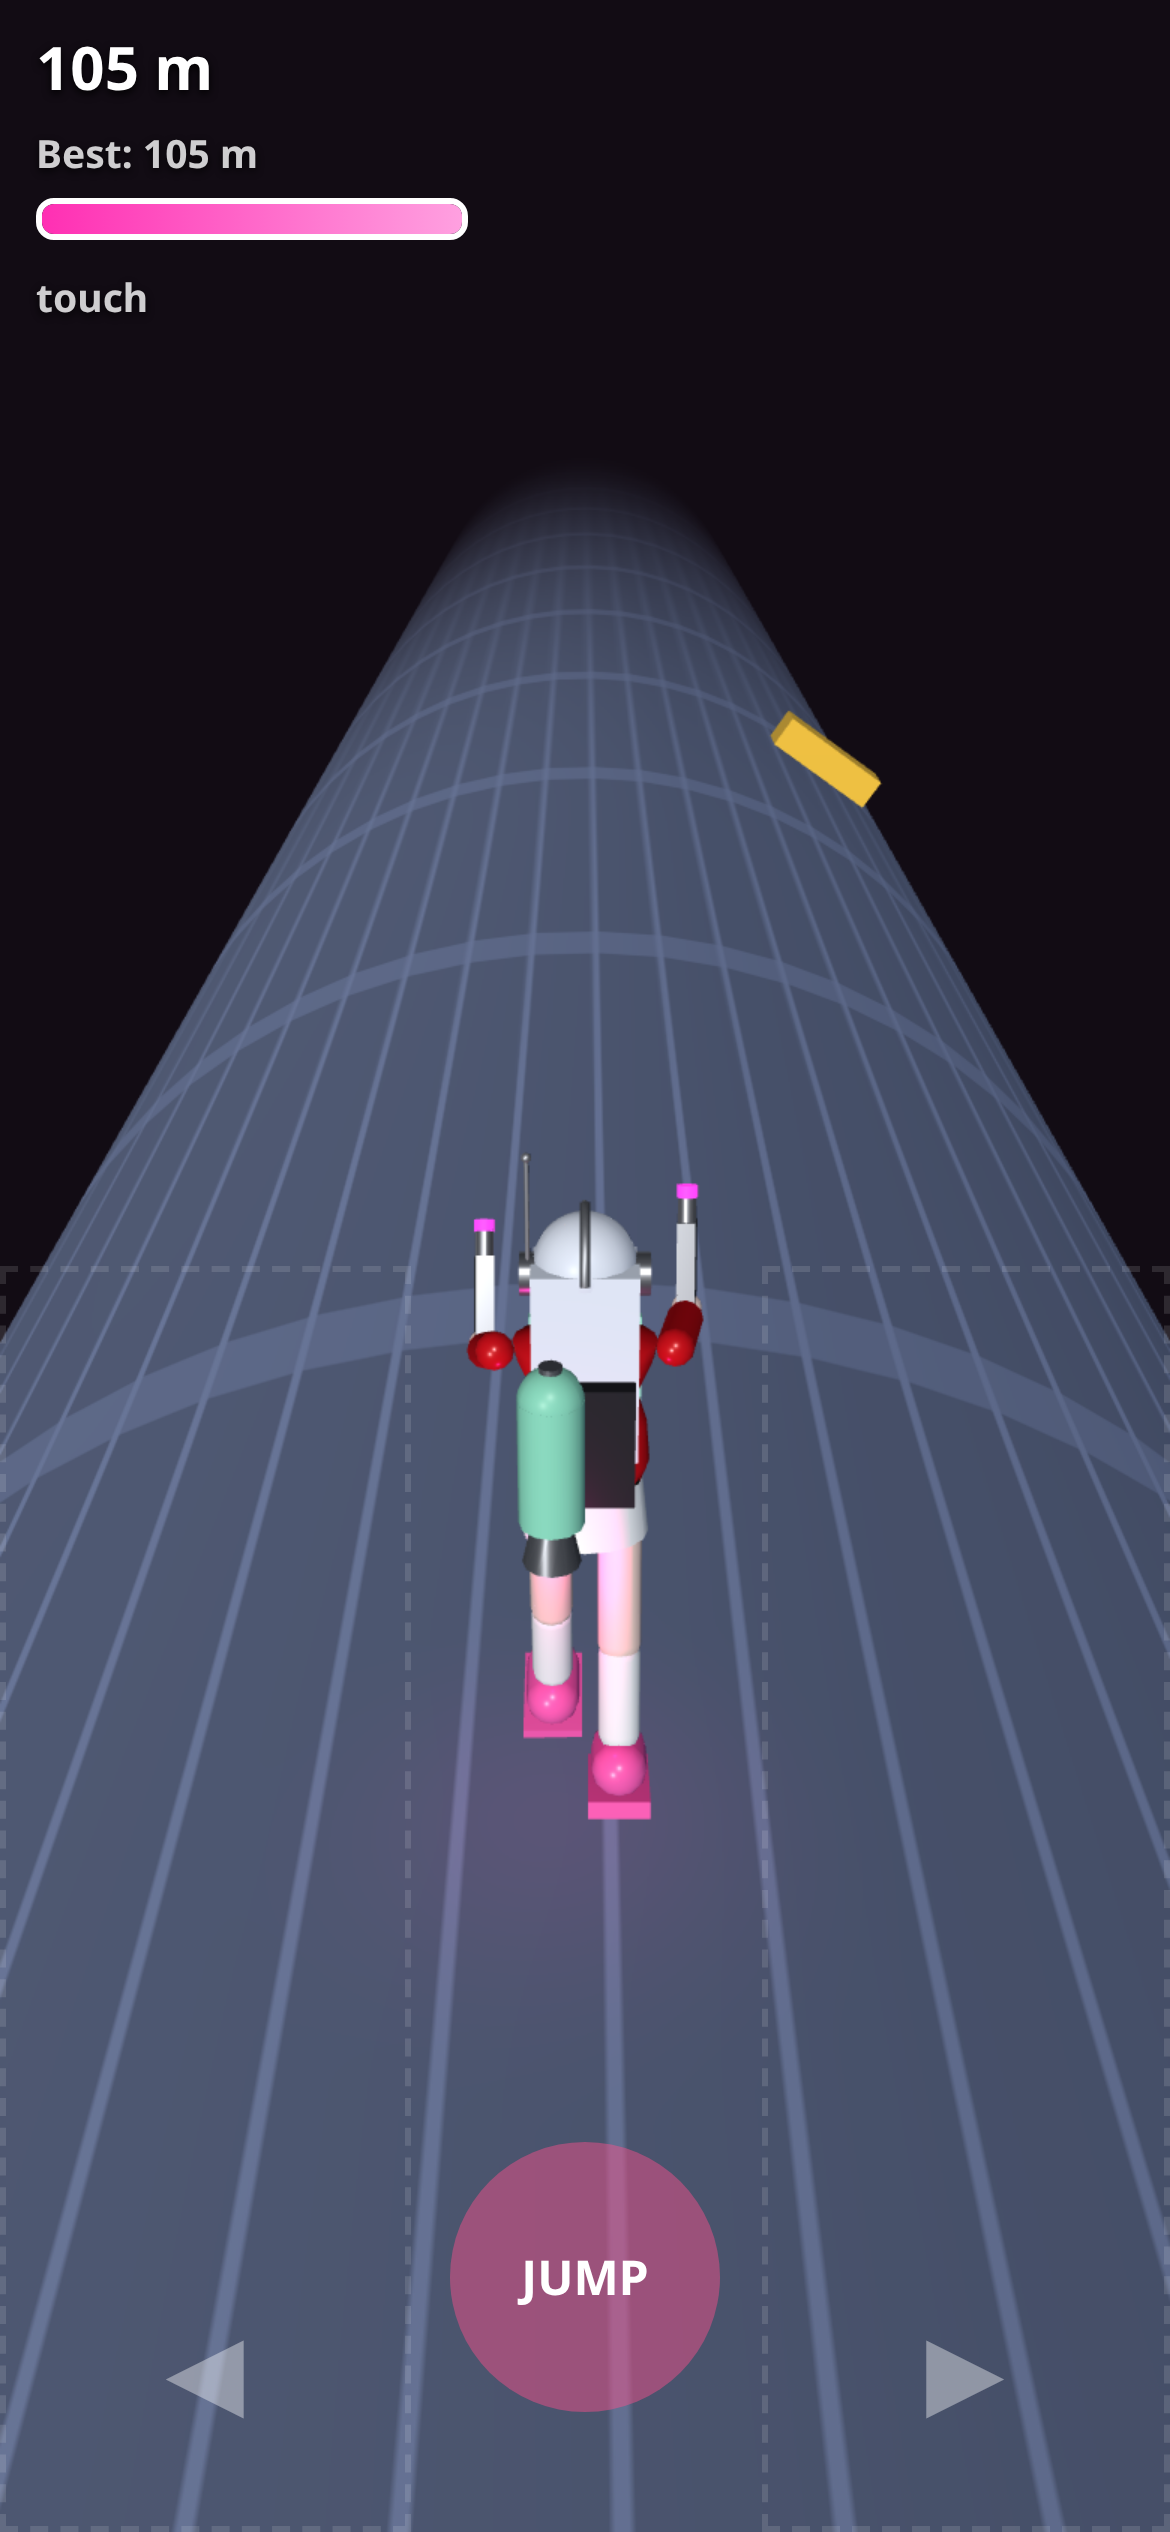
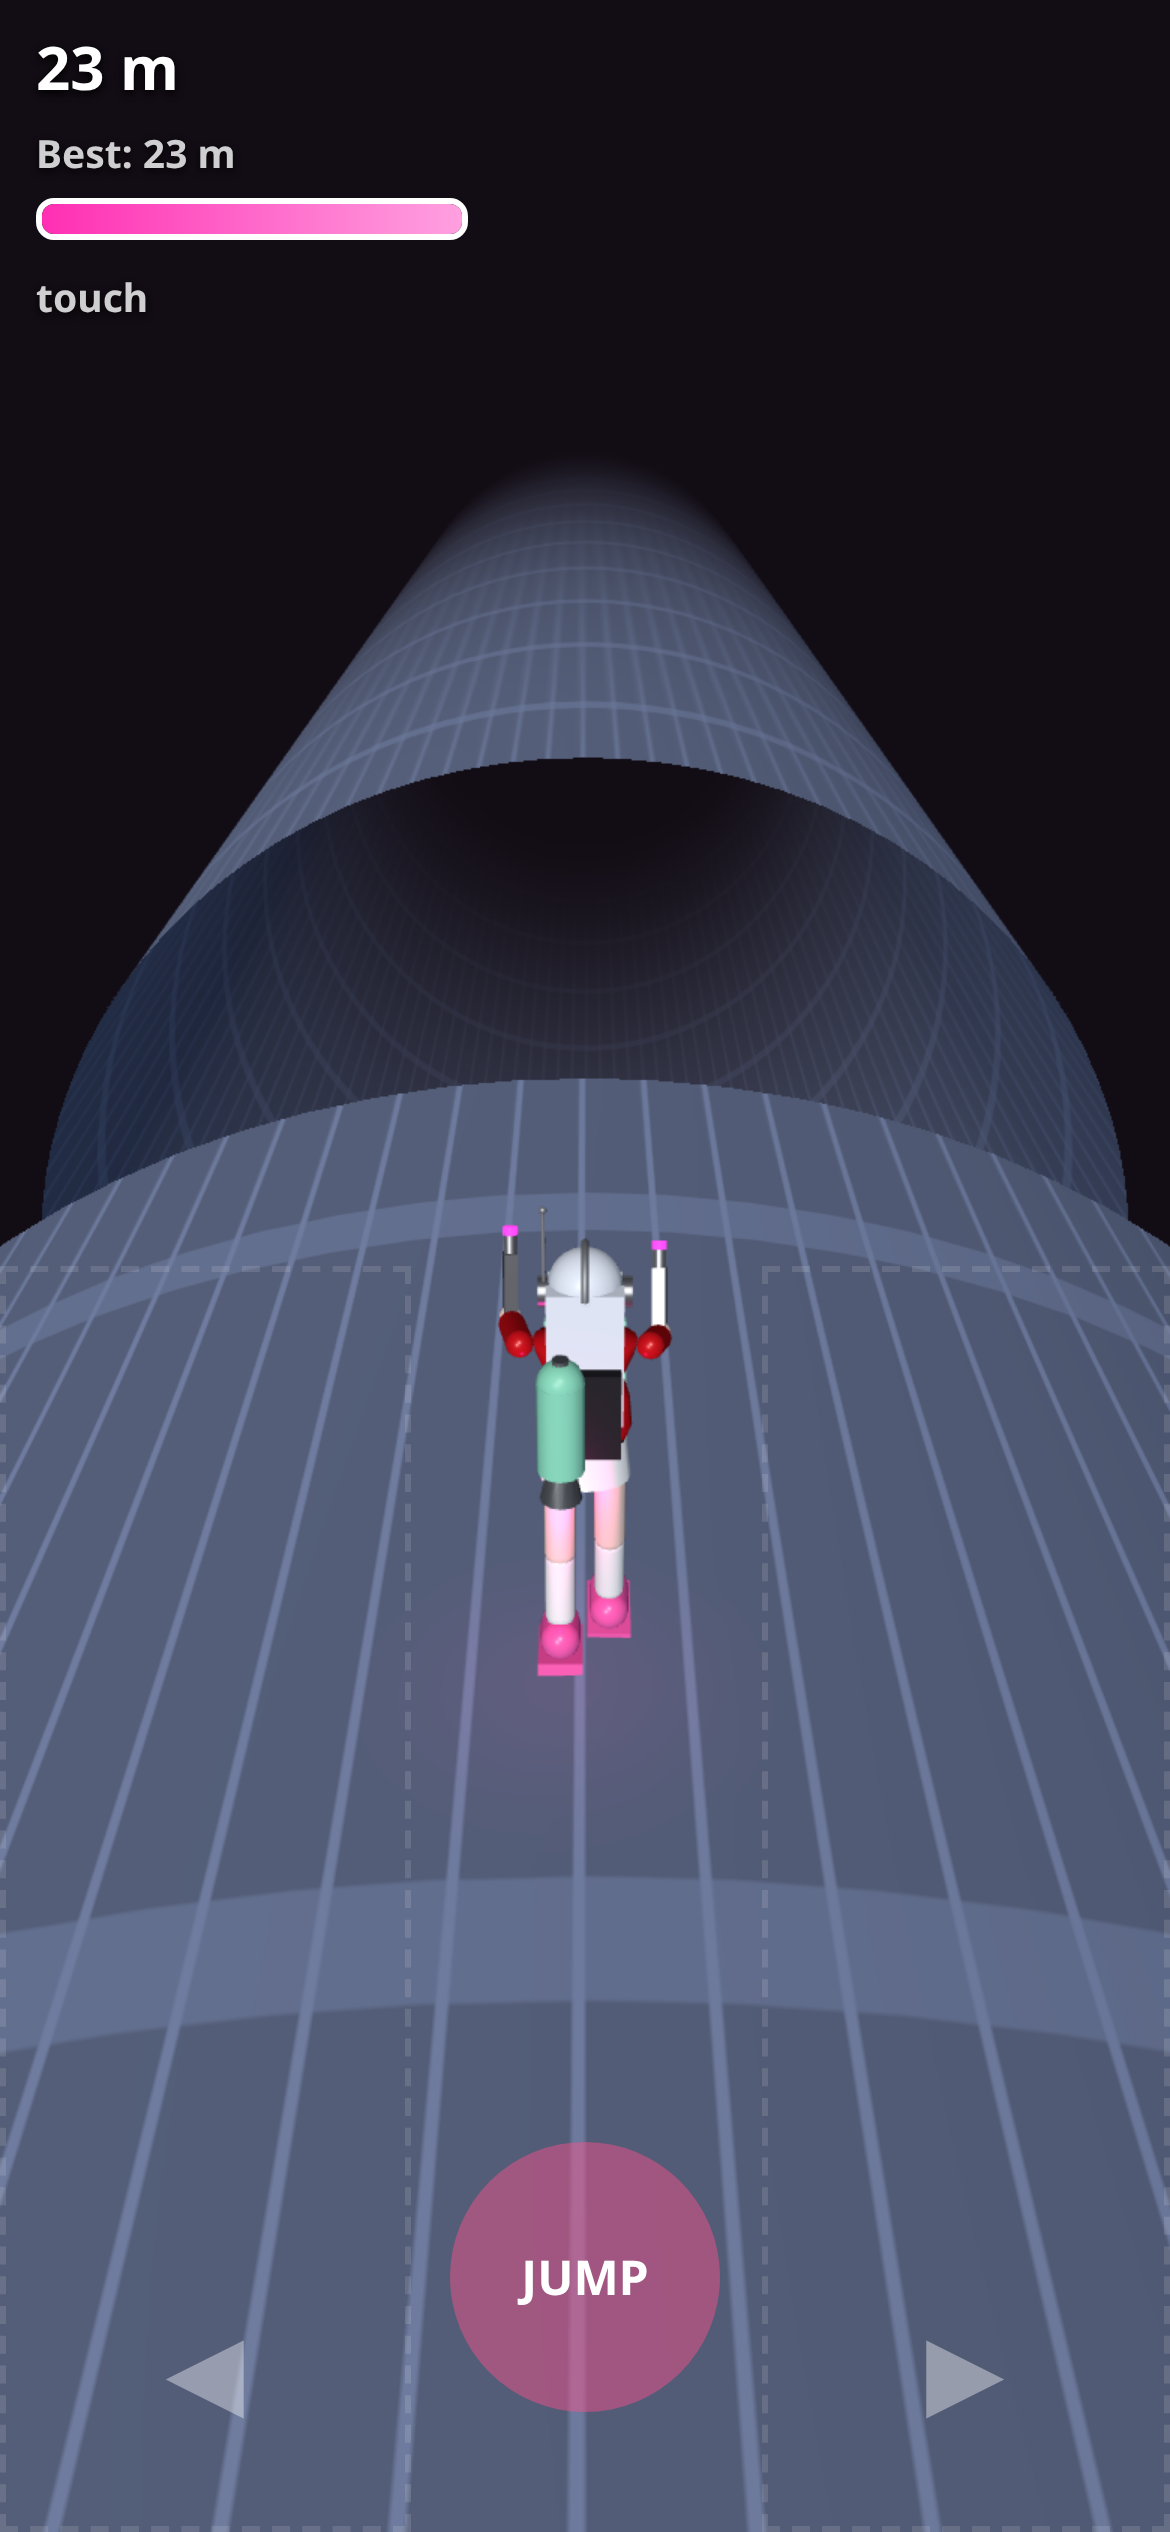
Radius 14, +20% speed, cap 72, tube gaps (clean cut, jetpack-crossable)

diff --git a/index.html b/index.html
@@ -25,22 +25,27 @@ canvas{display:block;touch-action:none}
 <div id="over"><h1>Game Over</h1><div id="final"></div><button id="restart">Restart</button><small style="margin-top:8px;opacity:.7">Space / tap to restart</small></div>
 <script type="module">
 import * as THREE from 'three';
-const R=8, BASE=12, RAMP=0.5, RAMP_T=10, CAP=40, TURN_RATE=115*Math.PI/180, HOP_H=1.6, THRUST=36, VY_MAX=7.5, FUEL_TIME=1.6, FUEL_REFILL=0.7, MAX_ALT=9, JUMP_H=HOP_H, G=18,
-  V0=Math.sqrt(2*G*JUMP_H), COYOTE=0.12, BUFFER=0.1, CAM_D=8.5, CAM_H=7, CAM_FOLLOW=4.5;
+const R=14, BASE=14.4, RAMP=0.5, RAMP_T=10, CAP=72, TURN_RATE=18/R /* ~74deg/s, 18 m/s surface (was 16) */, HOP_H=1.6, THRUST=36, VY_MAX=7.5, FUEL_TIME=1.6, FUEL_REFILL=0.7, MAX_ALT=9, JUMP_H=HOP_H, G=18,
+  V0=Math.sqrt(2*G*JUMP_H), COYOTE=0.12, BUFFER=0.1, CAM_D=10.5, CAM_H=8.5, CAM_FOLLOW=4.5;
 const renderer=new THREE.WebGLRenderer({antialias:true});
 renderer.setPixelRatio(Math.min(devicePixelRatio,2));renderer.setSize(innerWidth,innerHeight);
 document.body.appendChild(renderer.domElement);
-const scene=new THREE.Scene();scene.background=new THREE.Color(0x120c14);scene.fog=new THREE.Fog(0x120c14,30,110);
+const scene=new THREE.Scene();scene.background=new THREE.Color(0x120c14);scene.fog=new THREE.Fog(0x120c14,40,150);
 {const dimSun=new THREE.Mesh(new THREE.SphereGeometry(14,24,16),new THREE.MeshBasicMaterial({color:0xb8502a,fog:false}));dimSun.position.set(-60,-150,-90);scene.add(dimSun);}
-const camera=new THREE.PerspectiveCamera(65,innerWidth/innerHeight,0.1,300);
+const camera=new THREE.PerspectiveCamera(70,innerWidth/innerHeight,0.1,400);
 scene.add(new THREE.HemisphereLight(0xbfd8ff,0x202030,1.1));
 const sun=new THREE.DirectionalLight(0xffffff,1.2);sun.position.set(10,30,10);scene.add(sun);scene.add(camera);const camLight=new THREE.DirectionalLight(0xffffff,1.4);camLight.position.set(0,2,1);camera.add(camLight);camLight.target.position.set(0,0,-10);camera.add(camLight.target);
 // tube: vertical cylinder along Y, Vic runs downward (-Y). Texture scrolls to show motion.
 const cv=document.createElement('canvas');cv.width=256;cv.height=256;const cx=cv.getContext('2d');
 cx.fillStyle='#2a3350';cx.fillRect(0,0,256,256);cx.fillStyle='#3d4a75';cx.fillRect(0,0,256,24);
 cx.fillStyle='#4f5f95';for(let i=0;i<8;i++)cx.fillRect(i*32,0,3,256);
-const tex=new THREE.CanvasTexture(cv);tex.wrapS=tex.wrapT=THREE.RepeatWrapping;tex.repeat.set(8,30);
-const tube=new THREE.Mesh(new THREE.CylinderGeometry(R,R,300,64,1,true),new THREE.MeshStandardMaterial({map:tex,roughness:.8}));
+const tex=new THREE.CanvasTexture(cv);tex.wrapS=tex.wrapT=THREE.RepeatWrapping;tex.repeat.set(14,60);
+const GAPN=4,gapU={value:Array.from({length:GAPN},()=>new THREE.Vector2(1e5,1e5))};
+const tubeMat=new THREE.MeshStandardMaterial({map:tex,roughness:.8,side:THREE.DoubleSide});
+tubeMat.onBeforeCompile=sh=>{sh.uniforms.gaps=gapU;
+ sh.vertexShader=sh.vertexShader.replace('#include <common>','#include <common>\nvarying float vWY;').replace('#include <project_vertex>','#include <project_vertex>\nvWY=(modelMatrix*vec4(transformed,1.0)).y;');
+ sh.fragmentShader=sh.fragmentShader.replace('#include <common>','#include <common>\nvarying float vWY;uniform vec2 gaps['+GAPN+'];').replace('void main() {','void main() {\nfor(int i=0;i<'+GAPN+';i++){if(vWY>gaps[i].x&&vWY<gaps[i].y)discard;}');};
+const tube=new THREE.Mesh(new THREE.CylinderGeometry(R,R,600,96,1,true),tubeMat);tube.position.y=-150;
 scene.add(tube);
 // Vic placeholder capsule (no reference model found) — FLAGGED
 const vic=new THREE.Group();
@@ -101,12 +106,12 @@ vic.traverse(o=>{if(o.isMesh)o.castShadow=false;});
 const vicPivot=new THREE.Group();vicPivot.add(vic);scene.add(vicPivot);
 // vic local: +Y = radial outward, +Z = facing direction (down the tube, -world Y)
 const VIC_HALF=new THREE.Vector3(0.5,1.0,0.5); // half extents in local (tangent, radial, axial)
-const obsGeo=new THREE.BoxGeometry(2.2,0.9,0.6), obsMat=new THREE.MeshStandardMaterial({color:0xffc83d,emissive:0x332200});
-const OBS_HALF={t:1.1,r:0.45,a:0.3};
-const meteors=[],craters=[];let pad=null;let st,camTheta0=true;const obstacles=[];
+const obsGeo=new THREE.BoxGeometry(3,0.9,0.6), obsMat=new THREE.MeshStandardMaterial({color:0xffc83d,emissive:0x332200});
+const OBS_HALF={t:1.5,r:0.45,a:0.3};
+const meteors=[],craters=[],gaps=[];let pad=null;let st,camTheta0=true;const obstacles=[];
 const best=()=>+(localStorage.getItem('vicRouteBest')||0);
-function reset(){for(const o of obstacles)scene.remove(o.mesh);obstacles.length=0;if(typeof clearMeteors==='function')clearMeteors();
- st={theta:0,y:0,vy:0,grounded:true,lastGround:0,bufferT:-1,speed:BASE,t:0,dist:0,spawnIn:1.5,over:false,frames:0,impacts:0,meteorIn:0,killedBy:null,spawnLo:1.8,spawnHi:3.2,difficulty:0,boost:0,boosted:false,padAy:-50,padDone:false,te:0,spins:0,jumps:0,fuel:1,thrusting:false,jumpT:0,maxY:0,camTheta:0,lean:0};camTheta0=true;
+function reset(){for(const o of obstacles)scene.remove(o.mesh);obstacles.length=0;if(typeof clearMeteors==='function')clearMeteors();if(typeof clearGaps==='function')clearGaps();
+ st={theta:0,y:0,vy:0,grounded:true,lastGround:0,bufferT:-1,speed:BASE,t:0,dist:0,spawnIn:1.5,over:false,frames:0,impacts:0,meteorIn:0,killedBy:null,spawnLo:1.8,spawnHi:3.2,difficulty:0,gapIn:8,gapsCrossed:0,boost:0,boosted:false,padAy:-50,padDone:false,te:0,spins:0,jumps:0,fuel:1,thrusting:false,jumpT:0,maxY:0,camTheta:0,lean:0};camTheta0=true;
  document.getElementById('over').style.display='none';if(pad){pad.visible=true;placePad();}}
 reset();
 const keys={left:false,right:false,jump:false};const touchHold={left:false,right:false,jump:false};const tapPend={left:0,right:0};
@@ -144,7 +149,7 @@ function collide(o){if(!st.grounded)return false; // spec: collision only while 
  const arc=Math.abs(angDiff(o.theta,st.theta))*R; const ax=Math.abs(o.ay-0);
  return arc<VIC_HALF.x+OBS_HALF.t && ax<VIC_HALF.z+OBS_HALF.a && st.y<OBS_HALF.r*2;}
 function gameOver(by){st.over=true;st.killedBy=by||'barrier';const m=Math.floor(st.dist);if(m>best())localStorage.setItem('vicRouteBest',m);
- document.getElementById('final').textContent=`${st.killedBy==='barrier'?'':'Knocked out by a '+st.killedBy+'! '}${m} m — Best ${best()} m`;document.getElementById('over').style.display='flex';}
+ document.getElementById('final').textContent=`${st.killedBy==='barrier'?'':st.killedBy==='gap'?'Fell into the gap! ':'Knocked out by a '+st.killedBy+'! '}${m} m — Best ${best()} m`;document.getElementById('over').style.display='flex';}
 
 // ---------- Boost pad ----------
 const surf=(th,h,ay,v=new THREE.Vector3())=>v.set(Math.sin(th)*(R+h),ay,Math.cos(th)*(R+h));
@@ -161,8 +166,35 @@ function updatePad(dt){if(st.padDone)return;st.padAy+=st.speed*dt;placePad();pad
  else if(st.padAy>PAD_L){st.padDone=true;pad.visible=false;}}
 placePad();
 
+// ---------- Tube gaps ----------
+// Max airtime with full fuel: hop 0.12s + thrust FUEL_TIME (vy capped VY_MAX, alt capped MAX_ALT) + free fall from MAX_ALT.
+const AIR_MAX=0.12+FUEL_TIME+Math.sqrt(2*MAX_ALT/G); // ~2.72s
+const HOP_AIR=2*V0/G;                                  // ~0.84s (tap only - not enough)
+const GAP_AIR=1.35;                                    // gap needs 1.35s airtime: > hop, ~50% of max
+const stripeTex=(()=>{const c=document.createElement('canvas');c.width=256;c.height=32;const x=c.getContext('2d');x.fillStyle='#111';x.fillRect(0,0,256,32);x.fillStyle='#ffcc00';
+ for(let i=-2;i<20;i++){x.beginPath();x.moveTo(i*16,32);x.lineTo(i*16+8,32);x.lineTo(i*16+24,0);x.lineTo(i*16+16,0);x.fill();}const t=new THREE.CanvasTexture(c);t.wrapS=THREE.RepeatWrapping;t.repeat.set(10,1);return t;})();
+const stripeMat=new THREE.MeshBasicMaterial({map:stripeTex,side:THREE.DoubleSide,fog:false});
+const edgeMat=new THREE.MeshBasicMaterial({color:0xff4020,fog:false});
+function gapLen(sp){return sp*GAP_AIR;}
+function spawnGap(near){const L=gapLen(st.speed);if(near===undefined)near=-90-st.speed*2;
+ const grp=new THREE.Group();
+ const band=(y)=>{const m=new THREE.Mesh(new THREE.CylinderGeometry(R+0.03,R+0.03,3,96,1,true),stripeMat);m.position.y=y;grp.add(m);};
+ const ring=(y)=>{const m=new THREE.Mesh(new THREE.TorusGeometry(R+0.05,0.18,8,96),edgeMat);m.rotation.x=Math.PI/2;m.position.y=y;grp.add(m);};
+ /* no warning visuals: clean cut only (shader discard) */
+ scene.add(grp);const g={near,L,grp};gaps.push(g);grp.position.y=near;return g;}
+function overGap(){for(const g of gaps)if(0<g.near&&0>g.near-g.L)return g;return null;}
+function updateGaps(dt,move){
+ // schedule: after 20s real time & pad passed; clean lead-in (no obstacles/meteors/craters) so fuel is full
+ st.gapIn-=dt;
+ if(st.t>20&&st.padDone&&st.gapIn<=0&&!gaps.length&&!meteors.length&&!craters.length){
+  const g=spawnGap(-90-st.speed*2); /* 2s clean lead-in behind the obstacle spawn line */st.spawnIn=Math.max(st.spawnIn,(g.L+st.speed*1.0)/st.speed+0.2);st.gapIn=Math.max(9,26-16*st.difficulty)+Math.random()*8;}
+ for(let i=gaps.length-1;i>=0;i--){const g=gaps[i];g.near+=move;g.grp.position.y=g.near;if(g.near-g.L>25){scene.remove(g.grp);gaps.splice(i,1);st.gapsCrossed++;}}
+ for(let i=0;i<GAPN;i++){const g=gaps[i];gapU.value[i].set(g?g.near-g.L:1e5,g?g.near:1e5);}
+ if(st.grounded&&overGap()){gameOver('gap');}}
+function clearGaps(){for(const g of gaps)scene.remove(g.grp);gaps.length=0;for(const v of gapU.value)v.set(1e5,1e5);}
+
 // ---------- Meteors ----------
-const LEAD=5, RING_T=2, HIT_R=2.2, HIT_H=2.0, CRATER_R=1.8, CRATER_H=2.0, CRATER_LIFE=7;
+const LEAD=5, RING_T=2, HIT_R=2.6, HIT_H=2.0, CRATER_R=2.4, CRATER_H=2.0, CRATER_LIFE=7;
 
 const mGeo=new THREE.IcosahedronGeometry(0.9,1),mMatM=new THREE.MeshStandardMaterial({color:0x5a2a14,emissive:0xff5a10,emissiveIntensity:1.2,flatShading:true,fog:false});
 const trailMat=new THREE.MeshBasicMaterial({color:0xff7a20,transparent:true,opacity:.6,fog:false,blending:THREE.AdditiveBlending,depthWrite:false});
@@ -199,7 +231,7 @@ function impact(m){scene.remove(m.ring);scene.remove(m.rock);flash();burst(surf(
   const c={theta:m.theta,ay:m.ay,life:CRATER_LIFE,mesh};craters.push(c);placeCrater(c);}}
 function placeCrater(c){surf(c.theta,0.05,c.ay,c.mesh.position);c.mesh.rotation.set(0,c.theta,0);c.mesh.material=craterMat;}
 function updateMeteors(dt,move){
- st.meteorIn-=dt;if(st.te>18&&st.meteorIn<=0){spawnMeteor(Math.random()<0.5?'targeted':'path');
+ st.meteorIn-=dt;if(st.te>18&&!gaps.length&&!(st.t>20&&st.padDone&&st.gapIn<=0)&&st.meteorIn<=0){spawnMeteor(Math.random()<0.5?'targeted':'path');
   st.meteorIn=Math.max(2.5,9-6*st.difficulty)+Math.random()*3;}
  for(let i=meteors.length-1;i>=0;i--){const m=meteors[i];m.t+=dt;m.ay=m.extra-st.speed*Math.max(0,LEAD-m.t);placeMeteor(m);
   if(m.t>=LEAD){meteors.splice(i,1);impact(m);if(st.over)return;}}
@@ -215,7 +247,7 @@ let simT=0;function step(dt){st.frames++;simT+=dt;
   const L=keys.left||touchHold.left||tapPend.left,Rt=keys.right||touchHold.right||tapPend.right;tapPend.left=tapPend.right=0;
   const dir=(L?1:0)-(Rt?1:0);/* +theta = screen-left */if(dir){st.theta+=dir*TURN_RATE*dt;st.spins++;}st.lean+=(dir-st.lean)*(1-Math.exp(-10*dt));
   updatePad(dt);const te=st.t+st.boost;st.te=te;
-  st.speed=Math.min(CAP,BASE+0.12*te+0.0004*te*te);st.difficulty=Math.min(1,te/150);st.spawnLo=1.8-1.1*st.difficulty;st.spawnHi=3.2-2.0*st.difficulty;
+  st.speed=Math.min(CAP,BASE+0.144*te+0.00048*te*te);st.difficulty=Math.min(1,te/150);st.spawnLo=1.8-1.1*st.difficulty;st.spawnHi=3.2-2.0*st.difficulty;
   const move=st.speed*dt;st.dist+=move;tex.offset.y-=move/300*30;
   if(st.grounded)st.lastGround=st.t;
   const buffered=st.bufferT>=0&&st.t-st.bufferT<=BUFFER;
@@ -226,8 +258,8 @@ let simT=0;function step(dt){st.frames++;simT+=dt;
   if(!st.grounded){st.vy-=G*dt;st.y+=st.vy*dt;if(st.y>MAX_ALT){st.y=MAX_ALT;st.vy=Math.min(st.vy,0);}st.maxY=Math.max(st.maxY,st.y);if(st.y<=0){st.y=0;st.vy=0;st.grounded=true;}}
   if(st.grounded)st.fuel=Math.min(1,st.fuel+FUEL_REFILL*dt);
   document.getElementById('fuel').style.width=(st.fuel*100).toFixed(1)+'%';
-  st.spawnIn-=dt;if(st.spawnIn<=0){const th=spawn();if(st.difficulty>0.35&&Math.random()<0.45*st.difficulty)spawn(th+(Math.PI/3+Math.random()*Math.PI*0.8)*(Math.random()<.5?-1:1));st.spawnIn=st.spawnLo+Math.random()*(st.spawnHi-st.spawnLo);}
-  updateMeteors(dt,move);if(st.over)return;
+  st.spawnIn-=dt;if(st.spawnIn<=0&&gaps.some(g=>g.near-g.L<-90+st.speed*0.8))st.spawnIn=0.2;if(st.spawnIn<=0){const th=spawn();if(st.difficulty>0.35&&Math.random()<0.45*st.difficulty)spawn(th+(Math.PI/3+Math.random()*Math.PI*0.8)*(Math.random()<.5?-1:1));st.spawnIn=st.spawnLo+Math.random()*(st.spawnHi-st.spawnLo);}
+  updateMeteors(dt,move);if(st.over)return;updateGaps(dt,move);if(st.over)return;
   for(let i=obstacles.length-1;i>=0;i--){const o=obstacles[i];o.ay+=move;placeObs(o);
    if(o.ay>20){scene.remove(o.mesh);obstacles.splice(i,1);continue;}
    if(collide(o)){gameOver();break;}}
@@ -250,7 +282,7 @@ let simT=0;function step(dt){st.frames++;simT+=dt;
  document.getElementById('best').textContent='Best: '+Math.max(best(),Math.floor(st.dist))+' m';
 }
 renderer.setAnimationLoop(()=>{const dt=Math.min(clock.getDelta(),0.05);step(dt);renderer.render(scene,camera);});
-window.__game={get state(){return {...st,obstacles:obstacles.map(o=>({theta:o.theta,ay:o.ay})),meteors:meteors.map(m=>({kind:m.kind,theta:m.theta,ay:m.ay,t:m.t,lead:LEAD,ringVisible:m.ring.visible,rockScale:m.rock.scale.x,rockPos:m.rock.position.toArray()})),craters:craters.map(c=>({theta:c.theta,ay:c.ay,life:c.life})),mode,vicPos:vic.getWorldPosition(new THREE.Vector3()).toArray()}},
+window.__game={get state(){return {...st,obstacles:obstacles.map(o=>({theta:o.theta,ay:o.ay})),meteors:meteors.map(m=>({kind:m.kind,theta:m.theta,ay:m.ay,t:m.t,lead:LEAD,ringVisible:m.ring.visible,rockScale:m.rock.scale.x,rockPos:m.rock.position.toArray()})),gaps:gaps.map(g=>({near:g.near,L:g.L})),craters:craters.map(c=>({theta:c.theta,ay:c.ay,life:c.life})),mode,vicPos:vic.getWorldPosition(new THREE.Vector3()).toArray()}},
  spawnAt(theta,ay){const m=new THREE.Mesh(obsGeo,obsMat);const o={mesh:m,theta,ay};scene.add(m);obstacles.push(o);placeObs(o);},
- get simT(){return simT},reset,jump:requestJump,spawnMeteor:(k,th,ay)=>spawnMeteor(k,th,ay),setTime:t=>{st.t=t;},consts:{R,BASE,CAP,V0,G,HOP_H,COYOTE,BUFFER,TURN_RATE,FUEL_TIME},placeholder:false,skipPad(){st.padDone=true;pad.visible=false;},screenX(){const v=vic.getWorldPosition(new THREE.Vector3()).project(camera);return (v.x+1)/2*innerWidth;},project(a){const v=new THREE.Vector3(...a).project(camera);return [(v.x+1)/2*innerWidth,(1-v.y)/2*innerHeight,v.z];}};
+ get simT(){return simT},reset,jump:requestJump,spawnMeteor:(k,th,ay)=>spawnMeteor(k,th,ay),setTime:t=>{st.t=t;},consts:{R,BASE,CAP,V0,G,HOP_H,COYOTE,BUFFER,TURN_RATE,FUEL_TIME},placeholder:false,spawnGap:n=>{const g=spawnGap(n);return {near:g.near,L:g.L}},gapPhys:{AIR_MAX,HOP_AIR,GAP_AIR},clearAll(){for(const o of obstacles)scene.remove(o.mesh);obstacles.length=0;clearMeteors();st.spawnIn=99;st.meteorIn=99;st.gapIn=999;},skipPad(){st.padDone=true;pad.visible=false;},screenX(){const v=vic.getWorldPosition(new THREE.Vector3()).project(camera);return (v.x+1)/2*innerWidth;},project(a){const v=new THREE.Vector3(...a).project(camera);return [(v.x+1)/2*innerWidth,(1-v.y)/2*innerHeight,v.z];}};
 </script></body></html>
